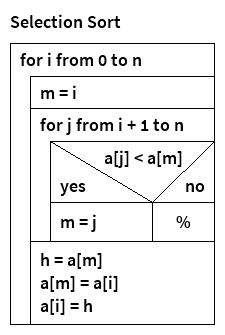
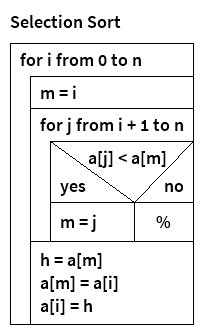
Improve branch and switch layout.

diff --git a/src/eu/greenlightning/nsdg/elements/Switch.java b/src/eu/greenlightning/nsdg/elements/Switch.java
@@ -22,7 +22,7 @@ public class Switch implements Element {
 	@Override
 	public int getWidth(Graphics2D g) {
 		int width = getLabelledWidth(g);
-		return width / 2 + Math.max(width / 2, expression.getWidth(g));
+		return Math.max(width, 10 + expression.getWidth(g) + 10);
 	}
 
 	private int getLabelledWidth(Graphics2D g) {
@@ -85,10 +85,12 @@ public class Switch implements Element {
 		g.drawRect(0, 0, width - 1, height - 1);
 		g.drawLine(0, 0, divider, titleHeight);
 		g.drawLine(divider, titleHeight, width - 1, 0);
-		double leftPercentage = (getCaseWidth(g) / 2.0) / getLabelledWidth(g);
-		double rightPercentage = (getCaseWidth(g) + getDefaultWidth(g) / 2.0) / getLabelledWidth(g);
-		int center = (int) ((leftPercentage + rightPercentage) * 0.5 * width);
-		expression.paint(g, center - expression.getWidth(g) / 2, 5);
+		if (defaultLabelled != null) {
+			expression.paint(g,
+				divider - (int) ((double) divider / width * expression.getWidth(g)), 5);
+		} else {
+			expression.paint(g, width - expression.getWidth(g) - 11, 5);
+		}
 		int labelHeight = 5 + expression.getHeight(g) + 5;
 		int offset = 0;
 		for (int i = 0; i < cases.size(); i++) {

diff --git a/src/eu/greenlightning/nsdg/elements/Branch.java b/src/eu/greenlightning/nsdg/elements/Branch.java
@@ -20,16 +20,15 @@ public class Branch implements Element {
 
 	@Override
 	public int getWidth(Graphics2D g) {
-		return Math.max(getTitleWidth(g), getBlockWidth(g));
+		return Math.max(getConditionWidth(g), getLabelledWidth(g));
 	}
 
-	private int getTitleWidth(Graphics2D g) {
-		return 10 + left.getLabel().getWidth(g) + 10 + condition.getWidth(g) + 10
-			+ right.getLabel().getWidth(g) + 10;
+	private int getConditionWidth(Graphics2D g) {
+		return 10 + condition.getWidth(g) + 10;
 	}
 
-	private int getBlockWidth(Graphics2D g) {
-		return left.getChild().getWidth(g) + right.getChild().getWidth(g);
+	private int getLabelledWidth(Graphics2D g) {
+		return left.getWidth(g, 10) + right.getWidth(g, 10);
 	}
 
 	@Override
@@ -48,7 +47,7 @@ public class Branch implements Element {
 
 	@Override
 	public void paint(Graphics2D g, int width, int height) {
-		double leftPercentage = left.getChild().getWidth(g) / (double) getBlockWidth(g);
+		double leftPercentage = left.getChild().getWidth(g) / (double) getLabelledWidth(g);
 		int center = (int) (leftPercentage * width);
 		int titleHeight = getTitleHeight(g);
 		g.drawRect(0, 0, width - 1, height - 1);

diff --git a/src/eu/greenlightning/nsdg/elements/Labelled.java b/src/eu/greenlightning/nsdg/elements/Labelled.java
@@ -29,7 +29,11 @@ public class Labelled {
 	}
 
 	public int getWidth(Graphics2D g) {
-		return Math.max(5 + label.getWidth(g) + 5, child.getWidth(g));
+		return getWidth(g, 5);
+	}
+
+	public int getWidth(Graphics2D g, int padding) {
+		return Math.max(padding + label.getWidth(g) + padding, child.getWidth(g));
 	}
 
 }
